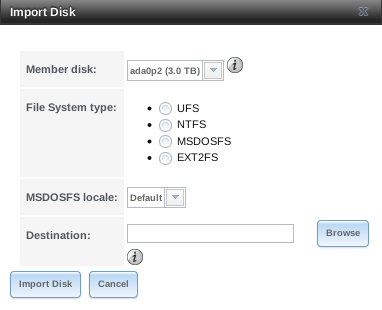
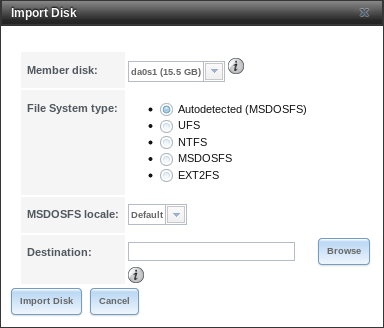
NAS-100558: Add autodetect field to import disk options. Add intro entry. Update storage-import.png Add autodetect text to import disk instructions. HTML build test: no issues with these changes. New UI changes tracked in a separate ticket.

diff --git a/userguide/storage.rst b/userguide/storage.rst
@@ -1007,11 +1007,11 @@ to an existing ZFS dataset. Only one disk can be imported at a time.
    Importing a Disk
 
 
-Use the drop-down menu to select the disk to import, select the type
-of filesystem on the disk, and browse to the ZFS dataset that will
-hold the copied data. If the :guilabel:`MSDOSFS` filesystem is selected,
-the :guilabel:`MSDOSFS locale` drop-down menu can be used to select the
-locale when non-ascii characters are present on the disk.
+Use the drop-down menu to select the disk to import, autodetect or
+select the type of filesystem on the disk, and browse to the ZFS dataset
+that will hold the copied data. If the :guilabel:`MSDOSFS` filesystem is
+selected, the :guilabel:`MSDOSFS locale` drop-down menu can be used to
+select the locale when non-ascii characters are present on the disk.
 
 Once :guilabel:`Import Disk` is clicked, the disk is mounted, its contents
 are copied to the specified ZFS dataset, and the disk is unmounted after

diff --git a/userguide/intro.rst b/userguide/intro.rst
@@ -130,6 +130,9 @@ These screen options have changed:
 * The :guilabel:`MTU` field has been added to
   :menuselection:`Network --> Link Aggregations --> Edit`.
 
+* The :guilabel:`Autodetected` field has been added to
+  :menuselection:`Storage --> Volumes --> Import Disk`.
+
 * :guilabel:`Snapshot retention policy` has replaced
   :guilabel:`Delete stale snapshots` in
   :menuselection:`Storage --> Replication Tasks --> Add Replication`.
